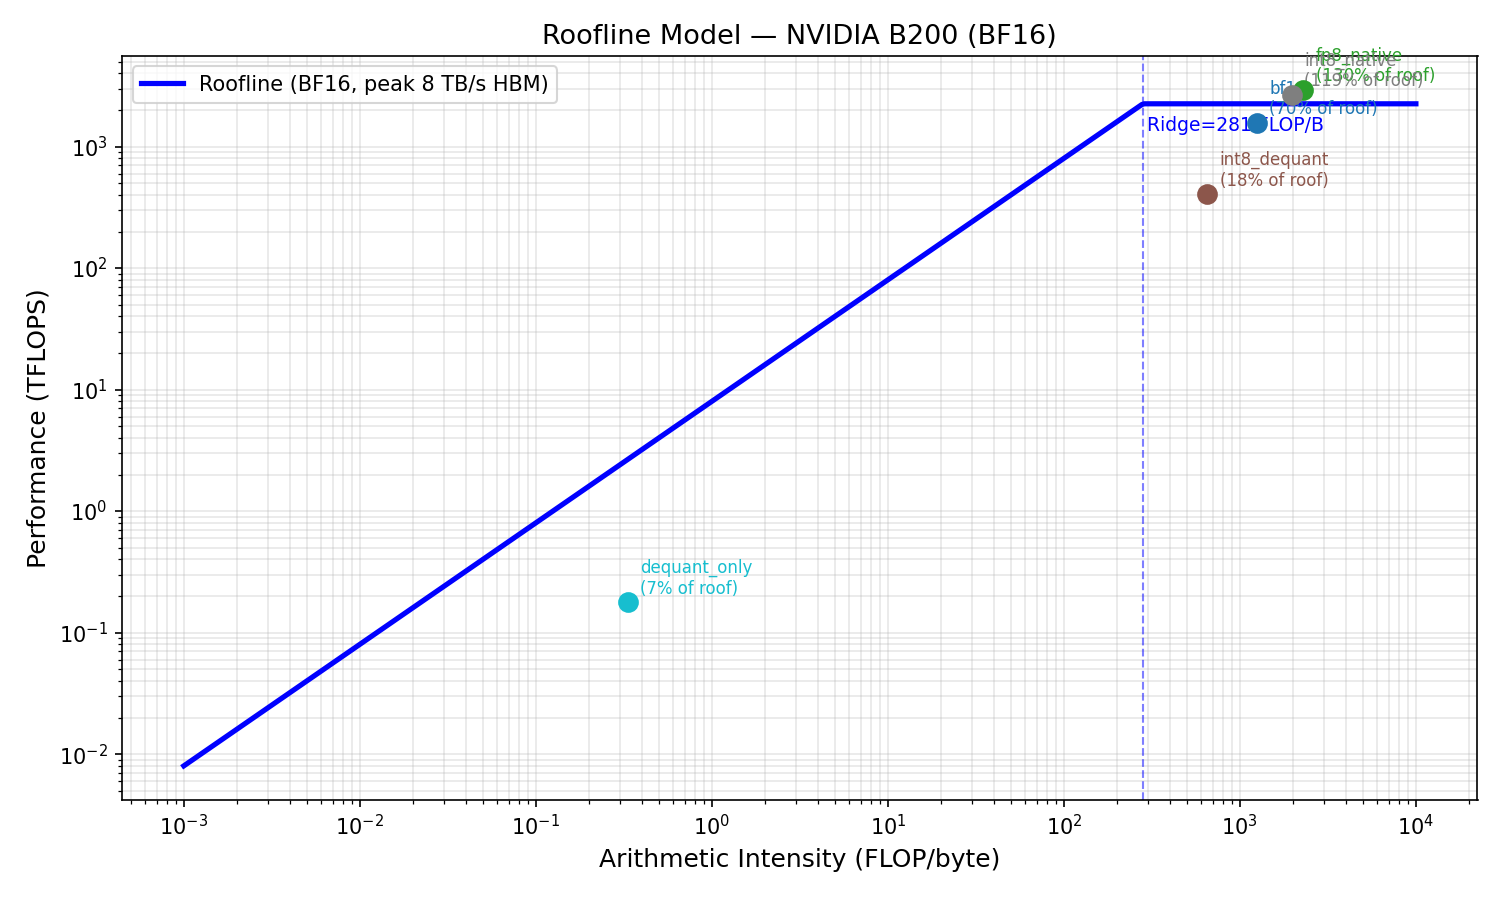
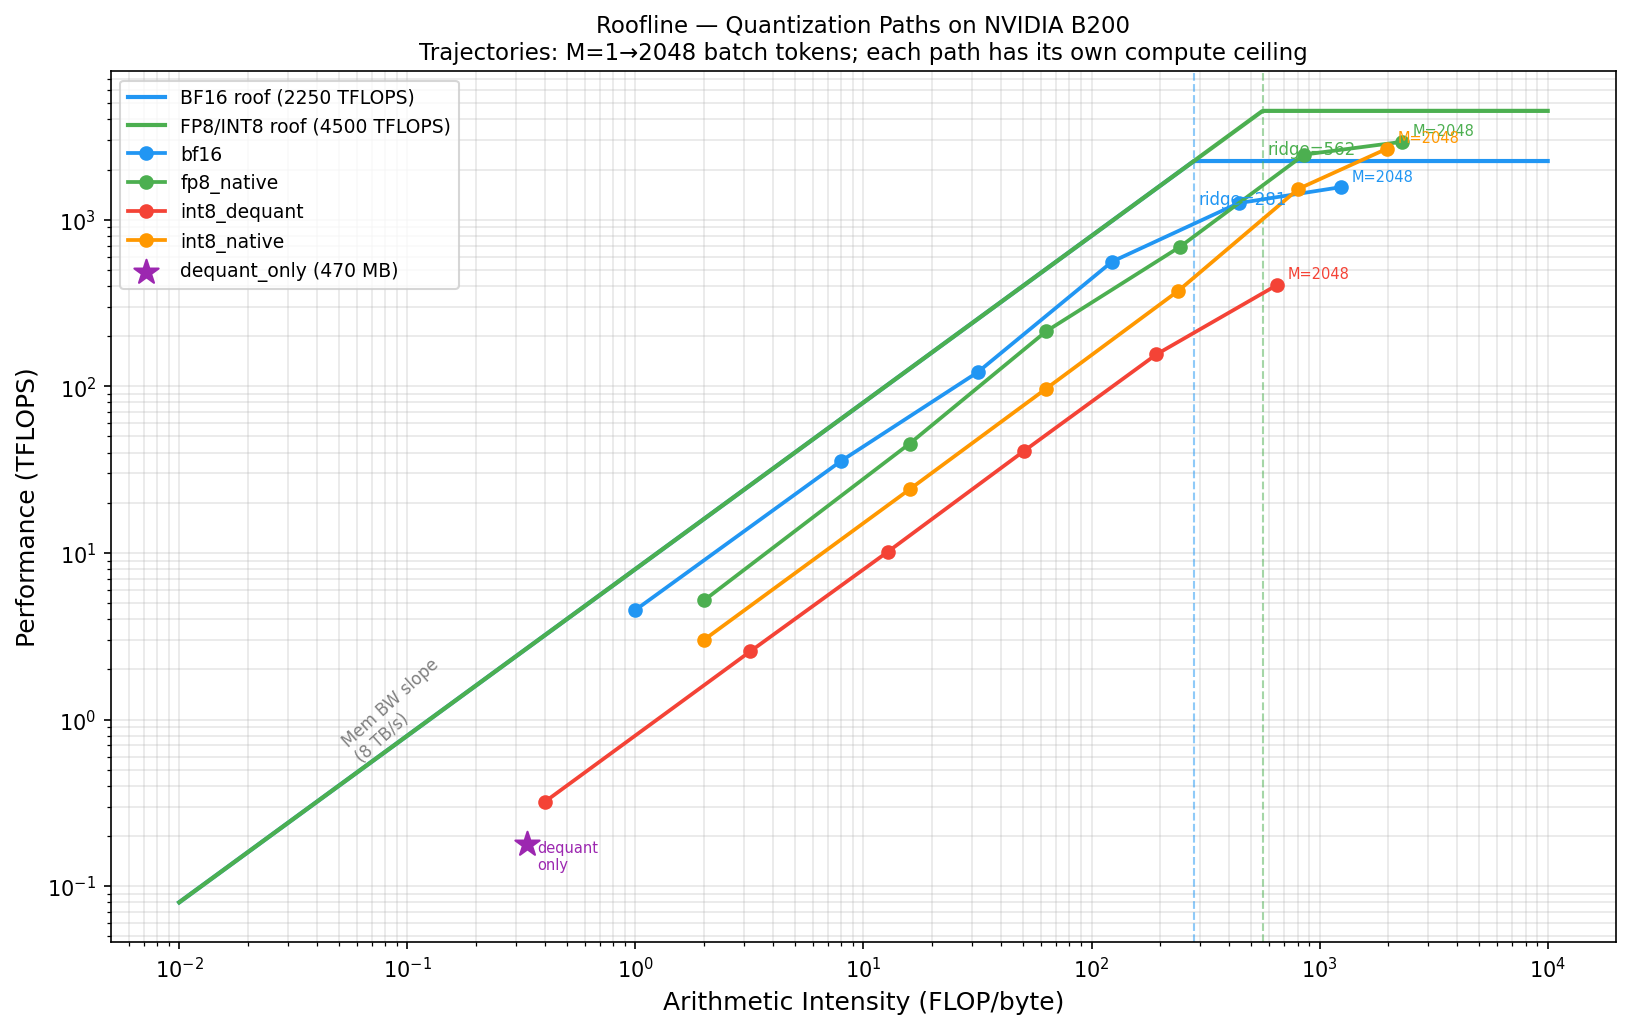
Fix quant roofline: multi-ceiling plot with per-path trajectories
Bug: single BF16 roof (2250 TFLOPS) used for all paths, but fp8_native
(2933 TFLOPS) and int8_native (2672 TFLOPS) both exceed it, appearing above the roof.

Fix:
- Draw two compute ceilings: BF16 (2250) for bf16/int8_dequant paths,
  FP8/INT8 (4500) for fp8_native/int8_native paths
- Plot all M values (1→2048) as trajectories per path, not just the max-M point
  This shows the memory-bound→compute-bound transition for each execution path
- dequant_only plotted as a star at (AI=0.33, TFLOPS=0.17) — far left, memory-bound
- Correct ridges: BF16 ridge=281 FLOP/byte, FP8/INT8 ridge=562 FLOP/byte

diff --git a/B200/scripts/09_quantization_memory_study.py b/B200/scripts/09_quantization_memory_study.py
@@ -244,17 +244,73 @@ def main():
     plt.tight_layout()
     save_fig(fig, f"{GOUT}/latency_vs_batch.png")
 
-    # ── Plot 2: Roofline ──────────────────────────────────────────────────────
-    # Pick the highest-M (most compute-bound) row for each matmul path
-    roofline_pts = {}
+    # ── Plot 2: Roofline — multi-dtype ceilings, all-M trajectories ──────────
+    # Each path has its own compute ceiling; show all M values as trajectories
+    # to visualise the memory-bound → compute-bound transition per path.
+    PATH_PEAK = {           # correct ceiling per execution path
+        "bf16":         DTYPE_PEAK["bf16"],   # 2250 TFLOPS
+        "fp8_native":   DTYPE_PEAK["fp8"],    # 4500 TFLOPS
+        "int8_native":  DTYPE_PEAK["int8"],   # 4500 TOPS (same as fp8 numerically)
+        "int8_dequant": DTYPE_PEAK["bf16"],   # dequant → bf16 matmul, capped at BF16
+    }
+    COLORS = {"bf16": "#2196F3", "fp8_native": "#4CAF50",
+              "int8_native": "#FF9800", "int8_dequant": "#F44336",
+              "dequant_only": "#9C27B0"}
+
+    ai_range = np.logspace(-2, 4, 600)
+    bw = MEM_BW_TBps
+
+    fig, ax = plt.subplots(figsize=(11, 7))
+
+    # Draw one roofline per distinct compute ceiling (avoid duplicate lines)
+    drawn_peaks = set()
+    for path, peak in PATH_PEAK.items():
+        if peak in drawn_peaks: continue
+        drawn_peaks.add(peak)
+        roof = np.minimum(ai_range * bw, peak)
+        label = f"{'BF16' if peak == DTYPE_PEAK['bf16'] else 'FP8/INT8'} roof ({peak:.0f} TFLOPS)"
+        ax.loglog(ai_range, roof, lw=2, ls="-",
+                  color="#2196F3" if peak == DTYPE_PEAK["bf16"] else "#4CAF50",
+                  label=label)
+        ridge = peak / bw
+        ax.axvline(ridge, color="#2196F3" if peak == DTYPE_PEAK["bf16"] else "#4CAF50",
+                   ls="--", lw=1, alpha=0.5)
+        ax.text(ridge * 1.05, peak * 0.55,
+                f"ridge={ridge:.0f}", fontsize=8,
+                color="#2196F3" if peak == DTYPE_PEAK["bf16"] else "#4CAF50")
+
+    # Memory slope label
+    ax.text(0.05, bw * 0.05 * 1.4, f"Mem BW slope\n({bw:.0f} TB/s)",
+            fontsize=8, color="gray", rotation=42)
+
+    # Plot each matmul path as a trajectory across all M values
     for path, grp in df.groupby("path"):
-        best = grp.loc[grp["M"].idxmax()]
-        roofline_pts[path] = (best["ai"], best["tflops"])
-    # Dequant-only: use largest weight size for best BW efficiency
+        grp = grp.sort_values("M")
+        c = COLORS.get(path, "gray")
+        ax.loglog(grp["ai"], grp["tflops"], "o-", lw=1.8, ms=6,
+                  color=c, label=path)
+        # Annotate last point (highest M)
+        last = grp.iloc[-1]
+        ax.annotate(f"M={int(last['M'])}", (last["ai"], last["tflops"]),
+                    textcoords="offset points", xytext=(5, 3), fontsize=7, color=c)
+
+    # Dequant-only: single point (doesn't depend on M)
     dq_best = df_dq.loc[df_dq["weight_MB"].idxmax()]
-    roofline_pts["dequant_only"] = (dq_best["ai"], dq_best["tflops"])
-    plot_roofline(roofline_pts, dtype="bf16",
-                  out_path=f"{GOUT}/roofline_quant_paths.png")
+    ax.scatter([dq_best["ai"]], [dq_best["tflops"]], marker="*", s=150,
+               color=COLORS["dequant_only"], zorder=6, label="dequant_only (470 MB weight)")
+    ax.annotate("dequant\nonly", (dq_best["ai"], dq_best["tflops"]),
+                textcoords="offset points", xytext=(5, -12), fontsize=7,
+                color=COLORS["dequant_only"])
+
+    ax.set_xlabel("Arithmetic Intensity (FLOP/byte)", fontsize=12)
+    ax.set_ylabel("Performance (TFLOPS)", fontsize=12)
+    ax.set_title("Roofline — Quantization Paths on NVIDIA B200\n"
+                 "Trajectories show M=1→2048 batch tokens; each path has its own compute ceiling",
+                 fontsize=11)
+    ax.legend(fontsize=9, loc="upper left")
+    ax.grid(True, which="both", alpha=0.3)
+    plt.tight_layout()
+    save_fig(fig, f"{GOUT}/roofline_quant_paths.png")
 
     # ── Plot 3: Dequant overhead — latency breakdown ──────────────────────────
     # For each M: bar showing int8_native vs int8_dequant, and the difference = dequant cost
